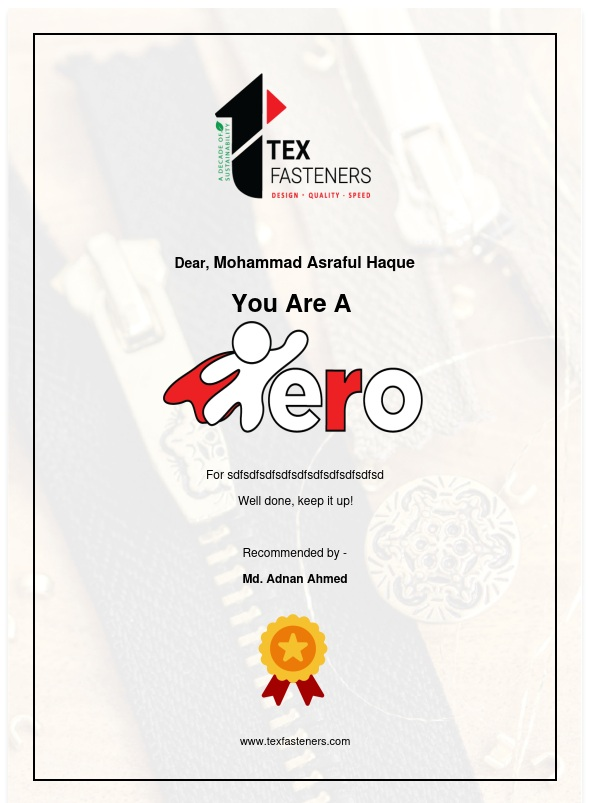
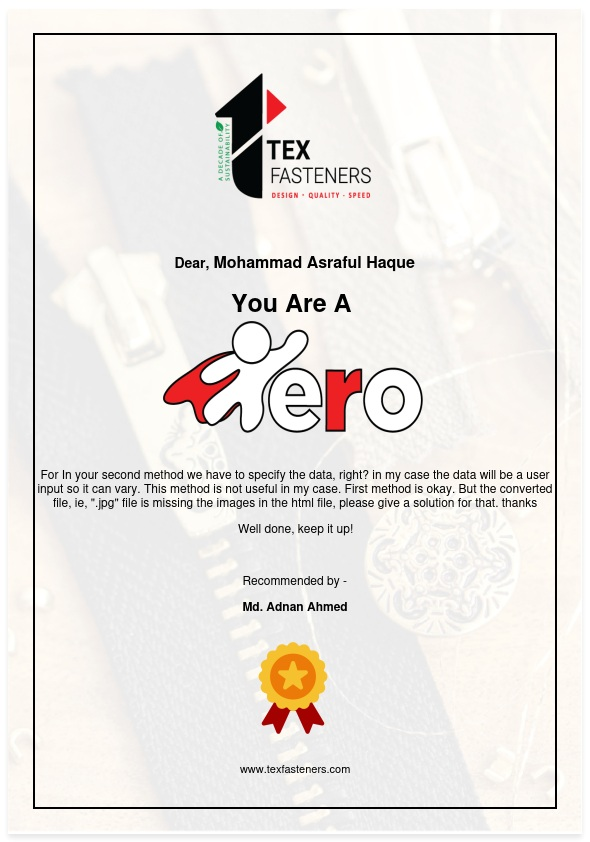
all

diff --git a/hr_reward/models/models.py b/hr_reward/models/models.py
@@ -153,15 +153,14 @@ class HrReward(models.Model):
     thanku_template = fields.Html('Thank you Template', default=""" 
                     <div class="card" style="position: relative; width: 637px; height: 426px; overflow: hidden; background-image: url('https://taps.odoo.com/hr_reward/static/src/img/th.png');  background-size: cover; color: #fff; text-align: center;padding: 30px;bottom: 0px;box-shadow: 0 4px 8px rgba(0, 0, 0, 0.1); ">
                        
-                    
-                        <p style="font-size: 12px; font-weight: bold; margin-top: 210px; color: #000000; text-align: left;  margin-left: 100px;">${ctx['employee_to_name']}</p><br/>
+                        <p style="font-size: 14px; font-weight: bold; margin-top: 180px; color: #000000; text-align: left;  margin-left: 120px;">${ctx['employee_to_name']}</p><br/>
                         <div class="row">
                         <div class="col-7">
-                        <p style="font-size: 9px; color: #000000; text-align: left; margin-left: 30px; ">${ctx['note']}</p>
+                        <p style="font-size: 12px; color: #000000; text-align: left; margin-left: 30px; margin-right:250px;">${ctx['note']}</p>
                         </div>
                         </div>
                         <br/>
-                        <p style="font-size: 10px; color: #000000; text-align: left;  margin-left: 50px;">Recommended by - ${ctx['submit_by_to_name']}</p>
+                        <p style="font-size: 13px; color: #000000; text-align: left;  margin-left: 70px;">Recommended by - ${ctx['submit_by_to_name']}</p>
                         <br/>
                         <br/>
                     </div>
@@ -170,18 +169,18 @@ class HrReward(models.Model):
     kudos_template = fields.Html('Kudos Template', default=""" 
                     <div class="card" style="position: relative; width: 680px; height: 426px; overflow: hidden; background-image: url('https://taps.odoo.com/hr_reward/static/src/img/Ku.jpg');  background-size: cover; color: #fff; text-align: center;padding: 30px;bottom: 0px;box-shadow: 0 4px 8px rgba(0, 0, 0, 0.1); ">
                        
-                        <p style="font-size: 12px; font-weight: bold; margin-top: 260px; color: #000000; text-align: center;">${ctx['employee_to_name']}</p><br/>
+                        <p style="font-size: 13px; font-weight: bold; margin-top: 260px; color: #000000; text-align: center;">${ctx['employee_to_name']}</p><br/>
                         <div class="row">
                             <div class="col-2"></div>
-                            <div class="col-8"><p style="font-size: 9px; color: #000000; text-align: center;">${ctx['note']}</p></div>
+                            <div class="col-8"><p style="font-size: 11px; color: #000000; text-align: center; margin-left: 30px; margin-right: 30px;">${ctx['note']}</p></div>
                             <div class="col-2"></div>
                         
                         </div>
                         <br/>
-                        <p style="font-size: 10px; color: #000000; text-align: center;">Recommended by - ${ctx['submit_by_to_name']}</p>
+                        <p style="font-size: 12px; color: #000000; text-align: center;">Recommended by - ${ctx['submit_by_to_name']}</p>
                         <br/>
                         <br/>
-                    </div> left: 0px; 
+                    </div> 
                     """)
     
     next_user = fields.Many2one('res.users', ondelete='set null', string="Next User", index=True, tracking=True)

diff --git a/taps_manufacturing/report/mrp_rpt_wizard.py b/taps_manufacturing/report/mrp_rpt_wizard.py
@@ -669,27 +669,33 @@ class MrpReportWizard(models.TransientModel):
                 invoiced = round((pack_pcs*price),2)
                 pending_usd = round((pending_pcs*price),2)
                 comu_inv = round((comu_pcs*price),2)
-                if start_time.date() == full_date.date():
-                    # raise UserError((start_time.date(),full_date.date()))
-                    pending_pcs = sum(item_run_ord.mapped('balance_qty'))
-                    vl = round(sum(item_run_ord.mapped('sale_order_line.price_subtotal')),2)
-                    _qty = sum(item_run_ord.mapped('sale_order_line.product_uom_qty'))
-                    if _qty > 0 and pending_pcs > 0:
-                        price = round((vl / _qty),4)
-                        pending_usd = round((pending_pcs*price),2)
-                
+
 
                 pending_oa = all_released.filtered(lambda pr: (pr.date_order.date() <= full_date.date() and  (pr.closing_date != True or (getattr(pr.closing_date, 'date', lambda: None)() == True and pr.closing_date.date() > full_date.date()) )))
-
-                closed_oa = all_released.filtered(lambda pr: pr.date_order.date() <= full_date.date() and  pr.closing_date != False)
-                if closed_oa:
-                    closed_oa = closed_oa.filtered(lambda pr: pr.closing_date.date() == full_date.date())
                 
                 pending_ids = 0
                 
                 if pending_oa:
                     oa_ids = pending_oa.mapped('oa_id')
                     pending_ids = len(oa_ids)
+                
+                if start_time.date() == full_date.date():
+                    # raise UserError((start_time.date(),full_date.date()))
+                    pending_pcs = sum(item_run_ord.mapped('balance_qty'))
+                    oa_ids = item_run_ord.mapped('oa_id')
+                    pending_ids = len(oa_ids)
+                    # pending_ids = sum(item_run_ord.mapped('balance_qty'))
+                    
+                    vl = round(sum(item_run_ord.mapped('sale_order_line.price_subtotal')),2)
+                    _qty = sum(item_run_ord.mapped('sale_order_line.product_uom_qty'))
+                    if _qty > 0 and pending_pcs > 0:
+                        price = round((vl / _qty),4)
+                        pending_usd = round((pending_pcs*price),2)
+
+                closed_oa = all_released.filtered(lambda pr: pr.date_order.date() <= full_date.date() and  pr.closing_date != False)
+                if closed_oa:
+                    closed_oa = closed_oa.filtered(lambda pr: pr.closing_date.date() == full_date.date())
+                
                 if closed_oa:
                     oa_ids = closed_oa.mapped('oa_id')
                     closed_ids += len(oa_ids)
